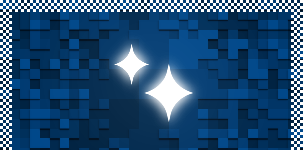
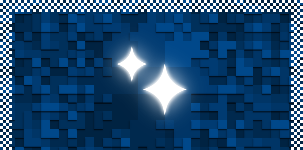
Update alchitex previewer assets

diff --git a/src/MainWindow.xaml.cs b/src/MainWindow.xaml.cs
@@ -1924,19 +1924,14 @@ public sealed partial class MainWindow : Window
         {
             if (RuntimeFlags.Set("Has Already Said the thing about what RTX Reactor does to packs in the button click menu"))
             {
-                Log($"RTX Reactor adds proper RTX support to texture packs, it works best on packs tagged as {PackBrowserOverlay.AlchitexCandidateTag}.", LogLevel.Alchitex);
+                Log($"RTX Reactor adds RTX support to regular texture packs, it works best on packs tagged as {PackBrowserOverlay.AlchitexCandidateTag}.", LogLevel.Alchitex);
             }
 #if DEBUG
             Log("No packs selected - opening RTX Reactor anyway (Debug build).", LogLevel.Alchitex);
 #else
-            Log("You must select at least one texture pack to use this feature on.", LogLevel.Warning);
+            Log($"You must select at least one texture pack to use RTX Reactor on.", LogLevel.Warning);
             return;
 #endif
-        }
-
-        if (!SelectedPacks.Any(p => p.IsAlchitexCandidate))
-        {
-            Log($"None of your selected packs is tagged '{PackBrowserOverlay.AlchitexCandidateTag}' - RTX Reactor will ask you to confirm each one before generating.", LogLevel.Alchitex);
         }
 
         string[] ToDisable =
